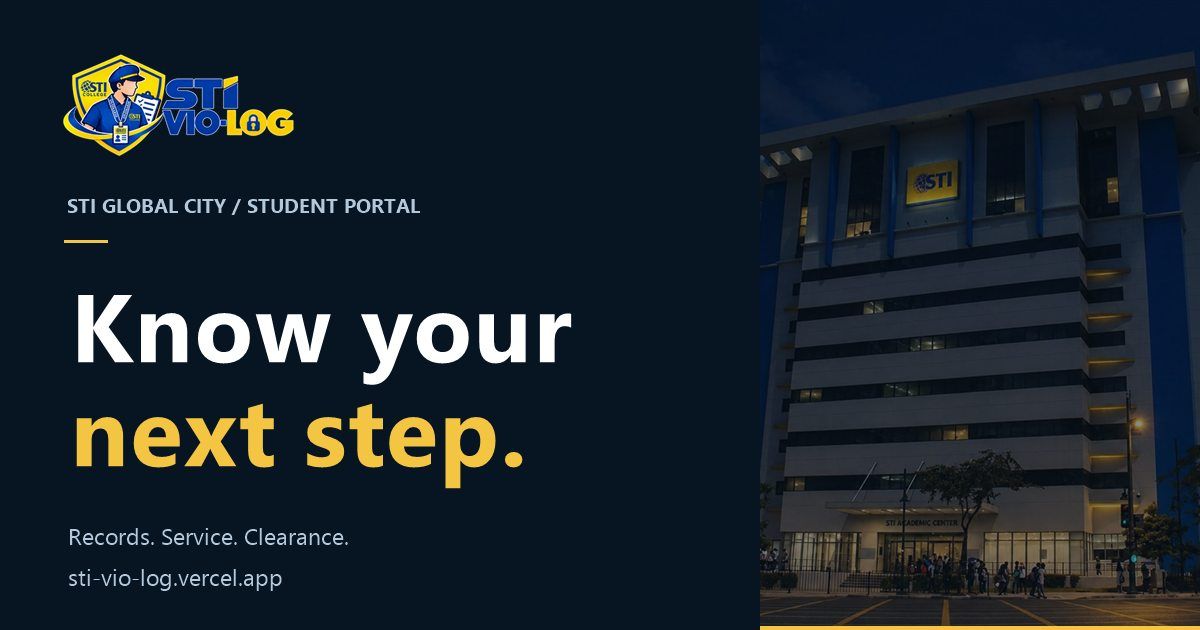
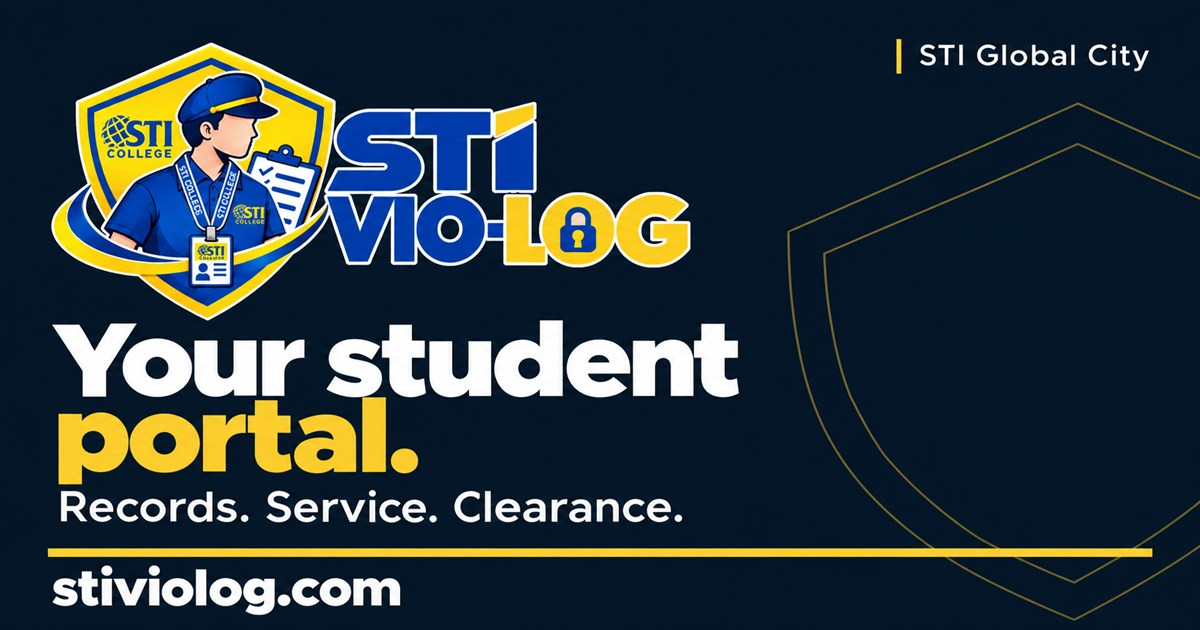
Update canonical domain and student portal link preview

diff --git a/backend/tests/email-service.test.js b/backend/tests/email-service.test.js
@@ -56,12 +56,13 @@ test('certificate email uses only the registered recipient and attaches the gene
 
 test('student credentials use Brevo with the login URL from the first configured frontend origin',async()=>{
   let body;
-  const service=createEmailService({env:{BREVO_API_KEY:'private-test-key',BREVO_SENDER_EMAIL:'verified@example.test',FRONTEND_URL:'https://portal.example.test,https://other.example.test'},fetchImpl:async(url,options)=>{assert.equal(url,BREVO_EMAIL_ENDPOINT);body=JSON.parse(options.body);return{ok:true}}});
+  const service=createEmailService({env:{BREVO_API_KEY:'private-test-key',BREVO_SENDER_EMAIL:'verified@example.test',FRONTEND_URL:'https://stiviolog.com,https://www.stiviolog.com,https://sti-vio-log.vercel.app'},fetchImpl:async(url,options)=>{assert.equal(url,BREVO_EMAIL_ENDPOINT);body=JSON.parse(options.body);return{ok:true}}});
   const result=await service.sendStudentCredentials({to:'student@gmail.com',studentName:'Maria Santos',studentNumber:'02000123456',temporaryPassword:'Private-test!Aa1'});
   assert.equal(result,undefined);
   assert.deepEqual(body.to,[{email:'student@gmail.com'}]);
-  for(const value of ['Maria Santos','02000123456','Private-test!Aa1','https://portal.example.test/login','change this temporary password','guardian information']) assert(body.textContent.includes(value),value);
-  assert(!body.textContent.includes('other.example.test'));
+  for(const value of ['Maria Santos','02000123456','Private-test!Aa1','https://stiviolog.com/login','change this temporary password','guardian information']) assert(body.textContent.includes(value),value);
+  assert(!body.textContent.includes('www.stiviolog.com'));
+  assert(!body.textContent.includes('sti-vio-log.vercel.app'));
   for(const step of ['1. Sign in','2. Create your own password','3. Review and acknowledge','4. Verify the Gmail','5. Complete your academic details','6. When you see "Your account is ready"'])assert(body.textContent.includes(step),step);
 });
 

diff --git a/frontend/index.html b/frontend/index.html
@@ -11,16 +11,16 @@
     <meta property="og:site_name" content="STI Vio-Log" />
     <meta property="og:title" content="STI Vio-Log | STI Global City" />
     <meta property="og:description" content="View your records, track community service, and follow your clearance progress in one secure STI Global City portal." />
-    <meta property="og:url" content="https://sti-vio-log.vercel.app/" />
-    <meta property="og:image" content="https://sti-vio-log.vercel.app/social-preview.jpg" />
+    <meta property="og:url" content="https://stiviolog.com/" />
+    <meta property="og:image" content="https://stiviolog.com/social-preview.jpg?v=20261021" />
     <meta property="og:image:width" content="1200" />
     <meta property="og:image:height" content="630" />
-    <meta property="og:image:alt" content="STI Vio-Log: Know your next step. Student records, service, and clearance for STI Global City." />
+    <meta property="og:image:alt" content="STI Vio-Log: Your student portal. Records. Service. Clearance. STI Global City. stiviolog.com." />
     <meta name="twitter:card" content="summary_large_image" />
     <meta name="twitter:title" content="STI Vio-Log | STI Global City" />
     <meta name="twitter:description" content="View your records, track community service, and follow your clearance progress in one secure STI Global City portal." />
-    <meta name="twitter:image" content="https://sti-vio-log.vercel.app/social-preview.jpg" />
-    <link rel="canonical" href="https://sti-vio-log.vercel.app/" />
+    <meta name="twitter:image" content="https://stiviolog.com/social-preview.jpg?v=20261021" />
+    <link rel="canonical" href="https://stiviolog.com/" />
     <link rel="icon" type="image/png" sizes="32x32" href="/favicon-32.png" />
     <link rel="apple-touch-icon" sizes="180x180" href="/apple-touch-icon.png" />
     <title>STI Vio-Log | STI Global City</title>

diff --git a/frontend/tests/page-metadata.test.js b/frontend/tests/page-metadata.test.js
@@ -23,10 +23,24 @@ test('authenticated and unknown routes are excluded from indexing', () => {
 })
 
 test('application shell includes canonical social and icon metadata', () => {
-  assert.match(html, /property="og:image" content="https:\/\/sti-vio-log\.vercel\.app\/social-preview\.jpg"/)
+  assert.match(html, /property="og:url" content="https:\/\/stiviolog\.com\/"/)
+  assert.match(html, /property="og:image" content="https:\/\/stiviolog\.com\/social-preview\.jpg\?v=20261021"/)
+  assert.match(html, /name="twitter:image" content="https:\/\/stiviolog\.com\/social-preview\.jpg\?v=20261021"/)
   assert.match(html, /name="twitter:card" content="summary_large_image"/)
-  assert.match(html, /rel="canonical"/)
+  assert.match(html, /rel="canonical" href="https:\/\/stiviolog\.com\/"/)
   assert.match(html, /rel="icon" type="image\/png" sizes="32x32" href="\/favicon-32\.png"/)
   assert.doesNotMatch(html, /rel="icon" type="image\/svg\+xml"/)
   assert.match(html, /rel="apple-touch-icon" sizes="180x180" href="\/apple-touch-icon\.png"/)
+})
+
+test('search discovery URLs use the canonical custom domain', async () => {
+  const sitemap = await readFile(new URL('../public/sitemap.xml', import.meta.url), 'utf8')
+  const robots = await readFile(new URL('../public/robots.txt', import.meta.url), 'utf8')
+  assert.deepEqual([...sitemap.matchAll(/<loc>(.*?)<\/loc>/g)].map((match) => match[1]), [
+    'https://stiviolog.com/',
+    'https://stiviolog.com/login',
+    'https://stiviolog.com/privacy',
+    'https://stiviolog.com/terms',
+  ])
+  assert.match(robots, /^Sitemap: https:\/\/stiviolog\.com\/sitemap\.xml$/m)
 })

diff --git a/frontend/tests/public-pages.test.js b/frontend/tests/public-pages.test.js
@@ -20,8 +20,8 @@ test('public legal pages cover privacy, authorized access, and contact guidance'
 test('crawler files expose public information without advertising protected areas', () => {
   assert.match(robotsSource, /Disallow: \/student\//)
   assert.match(robotsSource, /Disallow: \/admin\//)
-  assert.match(robotsSource, /Sitemap: https:\/\/sti-vio-log\.vercel\.app\/sitemap\.xml/)
-  assert.match(sitemapSource, /<loc>https:\/\/sti-vio-log\.vercel\.app\/privacy<\/loc>/)
-  assert.match(sitemapSource, /<loc>https:\/\/sti-vio-log\.vercel\.app\/terms<\/loc>/)
+  assert.match(robotsSource, /Sitemap: https:\/\/stiviolog\.com\/sitemap\.xml/)
+  assert.match(sitemapSource, /<loc>https:\/\/stiviolog\.com\/privacy<\/loc>/)
+  assert.match(sitemapSource, /<loc>https:\/\/stiviolog\.com\/terms<\/loc>/)
   assert.doesNotMatch(sitemapSource, /\/student\//)
 })

diff --git a/backend/tests/https-enforcement.test.js b/backend/tests/https-enforcement.test.js
@@ -15,7 +15,7 @@ const response = () => ({
 test('production HTTP requests redirect permanently to HTTPS', () => {
   const res = response();
   let continued = false;
-  enforceHttps({ NODE_ENV: 'production', FRONTEND_URL: 'https://sti-vio-log.vercel.app' })(
+  enforceHttps({ NODE_ENV: 'production', FRONTEND_URL: 'https://stiviolog.com' })(
     { secure: false, protocol: 'http', originalUrl: '/api/health?full=1', get: () => 'api.example.test' },
     res,
     () => { continued = true; },

diff --git a/docs/PRODUCTION-DEPLOYMENT.md b/docs/PRODUCTION-DEPLOYMENT.md
@@ -1,5 +1,15 @@
 # Vercel, Render and Supabase production deployment
 
+## Current domain — October 21, 2026
+
+The canonical frontend is [stiviolog.com](https://stiviolog.com). Keep `sti-vio-log.vercel.app` available. The `www.stiviolog.com` alias should redirect permanently to the canonical domain while preserving paths and query strings. GoDaddy DNS already points to the existing Vercel project; preserve the current nameservers and unrelated records.
+
+The existing Render service remains `STI-Vio-Log` (`srv-da2auknqj5pc73ec08ag`) in `My Workspace`, serving `https://sti-vio-log.onrender.com`. Put `https://stiviolog.com` first in `FRONTEND_URL`, retain approved origins, and include both `https://www.stiviolog.com` and `https://sti-vio-log.vercel.app`. Apply that setting with a merge, preserving every unrelated variable, and deploy before switching the canonical redirect. Google Cloud's existing Web Client must authorize `https://stiviolog.com`; retain working origins and the existing client ID. If Google Console access is unavailable, the owner must apply this setting before the canonical switch.
+
+The social preview is `frontend/public/social-preview.jpg` (1200 × 630), referenced as `https://stiviolog.com/social-preview.jpg?v=20261021`. The icon-generation script intentionally leaves this generated image alone. Stage a production deployment, verify metadata/image, routes, API proxy and CORS, then promote that tested deployment. Use `PRODUCTION_FRONTEND_URL=https://stiviolog.com` and `PRODUCTION_API_URL=https://sti-vio-log.onrender.com` for the read-only production smoke check. Check Google sign-in with an authorized test account; existing shared previews may need a refresh. Historical deployment snapshots below retain their original URLs and verification limits.
+
+Configuration verified October 21: the existing Google client already authorizes both new HTTPS origins and retains its local/Vercel origins. Render deployment `dep-dbc31cks728c73dqok9g` is Live with the canonical origin first; all 29 environment-variable names remain present. Read-only preflights accepted the apex, `www`, and Vercel origins and rejected an unapproved origin. Actual Google sign-in still requires an authorized test account.
+
 ## Verified deployment snapshot — October 13, 2026
 
 Production was verified on commit `b356e2b712c65a8f30fe52753f5a398028ab706b` (Refresh browser and Apple touch icons). It remained GitHub `main` at the final review on **October 13, 2026, 11:19–11:21 Asia/Manila**. [Security verification run 38258561658](https://github.com/Eyzen08/STI-Vio-Log/actions/runs/38258561658) completed successfully for this exact commit. The application release was performed October 12; the final alias correction and public checks were performed October 13. Dependencies, hosting plans, application code and database schema were not changed by this rollout. Later documentation-only releases can advance the deployed commit without changing application source; inspect the provider for the current live revision.

diff --git a/docs/GOOGLE-AUTH-USER-GUIDE.md b/docs/GOOGLE-AUTH-USER-GUIDE.md
@@ -25,8 +25,8 @@ Department Google registration and login are retired. Historical registration an
 - The frontend and backend use the same Google Web Client ID.
 - Vercel defines `VITE_GOOGLE_CLIENT_ID` and the production server-side `API_PROXY_ORIGIN` (production browser requests use the same-origin proxy).
 - The backend defines `GOOGLE_CLIENT_ID` with the same public Web Client ID.
-- Google Cloud lists both the local frontend origin and the exact Vercel production origin under **Authorized JavaScript origins**.
-- The production backend allows the Vercel origin through `FRONTEND_URL`/CORS.
+- Google Cloud lists `https://stiviolog.com` under **Authorized JavaScript origins**, retaining the local frontend and existing Vercel origins. Keep the existing Web Client ID; this ID-token flow does not need a new redirect URI or client secret.
+- The production backend lists `https://stiviolog.com` first in `FRONTEND_URL` so credential emails link to the canonical domain. Retain existing approved origins and include `https://www.stiviolog.com` and `https://sti-vio-log.vercel.app` for CORS/realtime compatibility.
 - `.env` files remain ignored; only placeholder values belong in `.env.example`.
 - Restart or redeploy services after environment-variable changes.
 

diff --git a/docs/FINAL-ACCEPTANCE-CHECKLIST.md b/docs/FINAL-ACCEPTANCE-CHECKLIST.md
@@ -74,7 +74,7 @@ Use the deployed HTTPS site on at least one Android phone and one iPhone if both
 - [ ] Run the read-only smoke test from `backend`:
 
 ```powershell
-$env:PRODUCTION_FRONTEND_URL = "https://sti-vio-log.vercel.app"
+$env:PRODUCTION_FRONTEND_URL = "https://stiviolog.com"
 $env:PRODUCTION_API_URL = "https://sti-vio-log.onrender.com"
 npm run smoke:production
 ```
